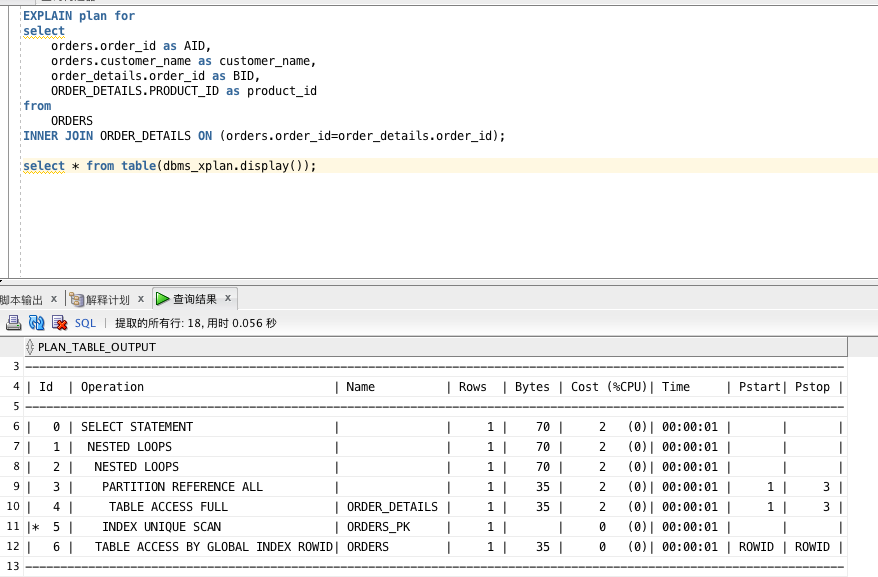
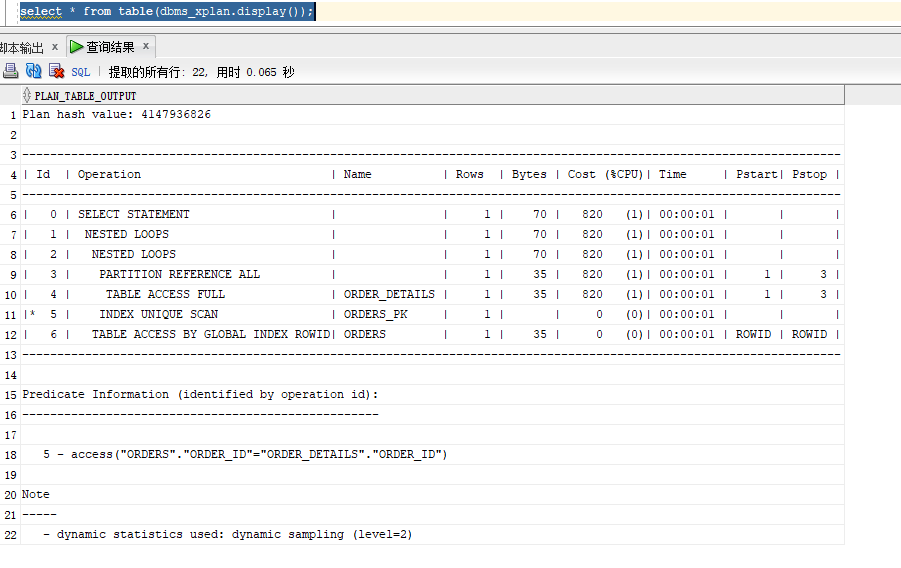
Add files via upload

Changed region(s): [[0.0, 0.0, 1.0, 0.9877], [0.5843, 0.3592, 0.615, 0.419]]

diff --git a/test3/实验3.md b/test3/实验3.md
@@ -50,69 +50,65 @@ With the Partitioning, OLAP, Advanced Analytics and Real Application Testing opt
 ####3.创建orders表：
 
 ```sql
-SQL> CREATE TABLE orders
+SQL>CREATE TABLE orders 
 (
- order_id NUMBER(10, 0) NOT NULL
- , customer_name VARCHAR2(40 BYTE) NOT NULL
- , customer_tel VARCHAR2(40 BYTE) NOT NULL
- , order_date DATE NOT NULL
- , discount NUMBER(8, 2) DEFAULT 0
- , employee_id NUMBER(6, 0) NOT NULL
-  8   , discount NUMBER(8, 2) DEFAULT 0
- , trade_receivable NUMBER(8, 2) DEFAULT 0
-)
- 11  TABLESPACE USERS
-PCTFREE 10 INITRANS 1
-STORAGE (   BUFFER_POOL DEFAULT )
-NOCOMPRESS NOPARALLEL
- 15  PARTITION BY RANGE (order_date)
- 16  (
+ order_id NUMBER(10, 0) NOT NULL 
+ , customer_name VARCHAR2(40 BYTE) NOT NULL 
+ , customer_tel VARCHAR2(40 BYTE) NOT NULL 
+ , order_date DATE NOT NULL 
+ , employee_id NUMBER(6, 0) NOT NULL 
+ , discount NUMBER(8, 2) DEFAULT 0 
+ , trade_receivable NUMBER(8, 2) DEFAULT 0 
+) 
+TABLESPACE USERS 
+PCTFREE 10 INITRANS 1 
+STORAGE (   BUFFER_POOL DEFAULT ) 
+NOCOMPRESS NOPARALLEL 
+PARTITION BY RANGE (order_date) 
+(
  PARTITION PARTITION_BEFORE_2016 VALUES LESS THAN (
- TO_DATE(' 2016-01-01 00:00:00', 'SYYYY-MM-DD HH24:MI:SS',
- 19   'NLS_CALENDAR=GREGORIAN'))
- NOLOGGING
- PCTFREE 10
- TABLESPACE USERS
- 22   PCTFREE 10
- 23   INITRANS 1
- 24   STORAGE
- 25  (
- 26   INITIAL 8388608
- 27   NEXT 1048576
- 28   MINEXTENTS 1
- 29   MAXEXTENTS UNLIMITED
- BUFFER_POOL DEFAULT
-)
-NOCOMPRESS NO INMEMORY
+ TO_DATE(' 2016-01-01 00:00:00', 'SYYYY-MM-DD HH24:MI:SS', 
+ 'NLS_CALENDAR=GREGORIAN')) 
+ NOLOGGING 
+ TABLESPACE USERS 
+ PCTFREE 10 
+ INITRANS 1 
+ STORAGE 
+( 
+ INITIAL 8388608 
+ NEXT 1048576 
+ MINEXTENTS 1 
+ MAXEXTENTS UNLIMITED 
+ BUFFER_POOL DEFAULT 
+) 
+NOCOMPRESS NO INMEMORY  
 , PARTITION PARTITION_BEFORE_2017 VALUES LESS THAN (
-TO_DATE(' 2017-01-01 00:00:00', 'SYYYY-MM-DD HH24:MI:SS',
-'NLS_CALENDAR=GREGORIAN'))
-NOLOGGING
-TABLESPACE USERS02
- PCTFREE 10
-  INITRANS 1
-  STORAGE
-  (
-    INITIAL 8388608
-    NEXT 1048576
-    MINEXTENTS 1
-    MAXEXTENTS UNLIMITED
-    BUFFER_POOL DEFAULT
-  )
-, PARTITION PARTITION_BEFORE_2018 VALUES LESS THAN (TO_DATE(' 2018-01-01 00:00:00', 'SYYYY-MM-DD HH24:MI:SS', 'NLS_CALENDAR=GREGORIAN'))
-  NOCOMPRESS NO INMEMORY
-, PARTITION PARTITION_BEFORE_2018 VALUES LESS THAN (TO_DATE(' 2018-01-01 00:00:00', 'SYYYY-MM-DD HH24:MI:SS', 'NLS_CALENDAR=GREGORIAN'))
- 50    NOLOGGING
-  TABLESPACE USERS03
-  PCTFREE 10
-  (
-  INITRANS 1
-  STORAGE
-  (
-    BUFFER_POOL DEFAULT
- 57    )
-  NOCOMPRESS NO INMEMORY
- 59  );
+TO_DATE(' 2017-01-01 00:00:00', 'SYYYY-MM-DD HH24:MI:SS', 
+'NLS_CALENDAR=GREGORIAN')) 
+NOLOGGING 
+TABLESPACE USERS02 
+ PCTFREE 10 
+  INITRANS 1 
+  STORAGE 
+  ( 
+    INITIAL 8388608 
+    NEXT 1048576 
+    MINEXTENTS 1 
+    MAXEXTENTS UNLIMITED 
+    BUFFER_POOL DEFAULT 
+  ) 
+  NOCOMPRESS NO INMEMORY  
+, PARTITION PARTITION_BEFORE_2018 VALUES LESS THAN (TO_DATE(' 2018-01-01 00:00:00', 'SYYYY-MM-DD HH24:MI:SS', 'NLS_CALENDAR=GREGORIAN')) 
+  NOLOGGING 
+  TABLESPACE USERS03 
+  PCTFREE 10 
+  INITRANS 1 
+  STORAGE 
+  ( 
+    BUFFER_POOL DEFAULT 
+  ) 
+  NOCOMPRESS NO INMEMORY  
+);
 表已创建。
 ```
 创建完表后要把order_id设置为主键，不然下一个表创建要出错：
@@ -120,69 +116,54 @@ TABLESPACE USERS02
 
 ####4.创建order_details表：
 ```sql
-SQL>CREATE TABLE order_details
-, product_id VARCHAR2(40 BYTE) NOT NULL
+SQL>CREATE TABLE order_details 
 (
-id NUMBER(10, 0) NOT NULL
-PCTFREE 10 INITRANS 1
-  4  , order_id NUMBER(10, 0) NOT NULL
-STORAGE (   BUFFER_POOL DEFAULT )
-NOCOMPRESS NOPARALLEL
-, product_id VARCHAR2(40 BYTE) NOT NULL
-, product_num NUMBER(8, 2) NOT NULL
-, product_price NUMBER(8, 2) NOT NULL
-NOLOGGING
-TABLESPACE USERS --必须指定表空间,否则会将分区存储在用户的默认表空间中
-PCTFREE 10
+id NUMBER(10, 0) NOT NULL 
+, order_id NUMBER(10, 0) NOT NULL
+, product_id VARCHAR2(40 BYTE) NOT NULL 
+, product_num NUMBER(8, 2) NOT NULL 
+, product_price NUMBER(8, 2) NOT NULL 
 , CONSTRAINT order_details_fk1 FOREIGN KEY  (order_id)
-    BUFFER_POOL DEFAULT
 REFERENCES orders  (  order_id   )
-PARTITION PARTITION_BEFORE_2017
-ENABLE
-)
-TABLESPACE USERS02
-PCTFREE 10
-  INITRANS 1
-TABLESPACE USERS
- 13  PCTFREE 10 INITRANS 1
-STORAGE (   BUFFER_POOL DEFAULT )
- 15  NOCOMPRESS NOPARALLEL
-  LOGGING
-  TABLESPACE USERS03
+ENABLE 
+) 
+TABLESPACE USERS 
+PCTFREE 10 INITRANS 1 
+STORAGE (   BUFFER_POOL DEFAULT ) 
+NOCOMPRESS NOPARALLEL
 PARTITION BY REFERENCE (order_details_fk1)
- 17  (
-NOCOMPRESS NO INMEMORY
-PARTITION PARTITION_BEFORE_2016
-NOLOGGING
+(
+PARTITION PARTITION_BEFORE_2016 
+NOLOGGING 
 TABLESPACE USERS --必须指定表空间,否则会将分区存储在用户的默认表空间中
-PCTFREE 10
-  INITRANS 1
-  STORAGE
-  (
-    BUFFER_POOL DEFAULT
-)
-NOCOMPRESS NO INMEMORY,
-PARTITION PARTITION_BEFORE_2017
- 29  NOLOGGING
+PCTFREE 10 
+  INITRANS 1 
+  STORAGE 
+  ( 
+    BUFFER_POOL DEFAULT 
+) 
+NOCOMPRESS NO INMEMORY, 
+PARTITION PARTITION_BEFORE_2017 
+NOLOGGING 
 TABLESPACE USERS02
-PCTFREE 10
- 32    INITRANS 1
-  STORAGE
-  (
- 35      BUFFER_POOL DEFAULT
-  )
-  NOCOMPRESS NO INMEMORY
-, PARTITION PARTITION_BEFORE_2018
-  LOGGING
-  TABLESPACE USERS03
-  PCTFREE 10
-  INITRANS 1
-  STORAGE
- 44    (
-    BUFFER_POOL DEFAULT
-  )
-NOCOMPRESS NO INMEMORY
- 48  );
+PCTFREE 10 
+  INITRANS 1 
+  STORAGE 
+  ( 
+    BUFFER_POOL DEFAULT 
+  ) 
+  NOCOMPRESS NO INMEMORY  
+, PARTITION PARTITION_BEFORE_2018 
+  LOGGING 
+  TABLESPACE USERS03 
+  PCTFREE 10 
+  INITRANS 1 
+  STORAGE 
+  ( 
+    BUFFER_POOL DEFAULT 
+  ) 
+NOCOMPRESS NO INMEMORY  
+);
 表已创建。
 ```
 #### 5.插入数据，数据能并平均分布到各个分区。每个表的数据都应该大于1万行，对表进行联合查询。
@@ -194,9 +175,9 @@ declare
 begin 
 --输出开始时间 
   dbms_output.put_line('start:'||sysdate); 
-  m:=9999;
+  m:=1234;
 --循环插入的数据量 
-  for i in 1..10000 loop 
+  for i in 1..4000 loop 
    m:=m+1; 
 insert into ORDERS (ORDER_ID,CUSTOMER_NAME,CUSTOMER_TEL,ORDER_DATE,EMPLOYEE_ID,DISCOUNT,TRADE_RECEIVABLE) 
 values (m,'user'||m,'10000',to_date('2016-05-04 00:00:00', 'SYYYY-MM-DD HH24:MI:SS'),001,15,29);
@@ -206,17 +187,21 @@ values (m,'user'||m,'10000',to_date('2016-05-04 00:00:00', 'SYYYY-MM-DD HH24:MI:
   dbms_output.put_line('end:'||sysdate); 
 end;
 ```
+通过对m的值进行修改及对时间的修改达到平均插入到不同的分区里面,每个分区我插入了4000条数据。
+![r3](https://github.com/evi9527/Oracle/blob/master/test3/orders表数据量.png)
 ##### 把数据插入order_details表
 
 ```
 declare 
   m integer; 
 begin 
+
 --输出开始时间 
   dbms_output.put_line('start:'||sysdate); 
-  m:=7000;
+  m:=2000;
+
 --循环插入的数据量 
-  for i in 1..5000 loop 
+  for i in 1..10000 loop 
    m:=m+1; 
 insert into ORDER_DETAILS (ID,ORDER_ID,PRODUCT_ID,PRODUCT_NUM,PRODUCT_PRICE) 
 values (m,m,'product'||m,15,29);
@@ -226,6 +211,7 @@ values (m,m,'product'||m,15,29);
   dbms_output.put_line('end:'||sysdate); 
 end;
 ```
+![r3](https://github.com/evi9527/Oracle/blob/master/test3/order_details表数据量.png)
 #### 6.联合查询
 
 ```
@@ -265,7 +251,7 @@ select * from table(dbms_xplan.display());
 
 范围分区将数据基于范围映射到每一个分区，这个范围是你在创建分区时指定的分区键决定的。这种分区方式是最为常用的，并且分区键经常采用日期。
 
-Oracle的表分区功能通过改善可管理性、性能和可用性，从而为各式应用程序带来了极大的好处。没有分配权限普通用户只能创建表，读写会报错，所有创建表用要分配权限
+Oracle的表分区功能通过改善可管理性、性能和可用性，从而为各式应用程序带来了极大的好处。没有分配权限普通用户只能创建表，读写会报错，所有创建表用要分配权限。
 
 #### 9.查看数据库的使用情况
 
